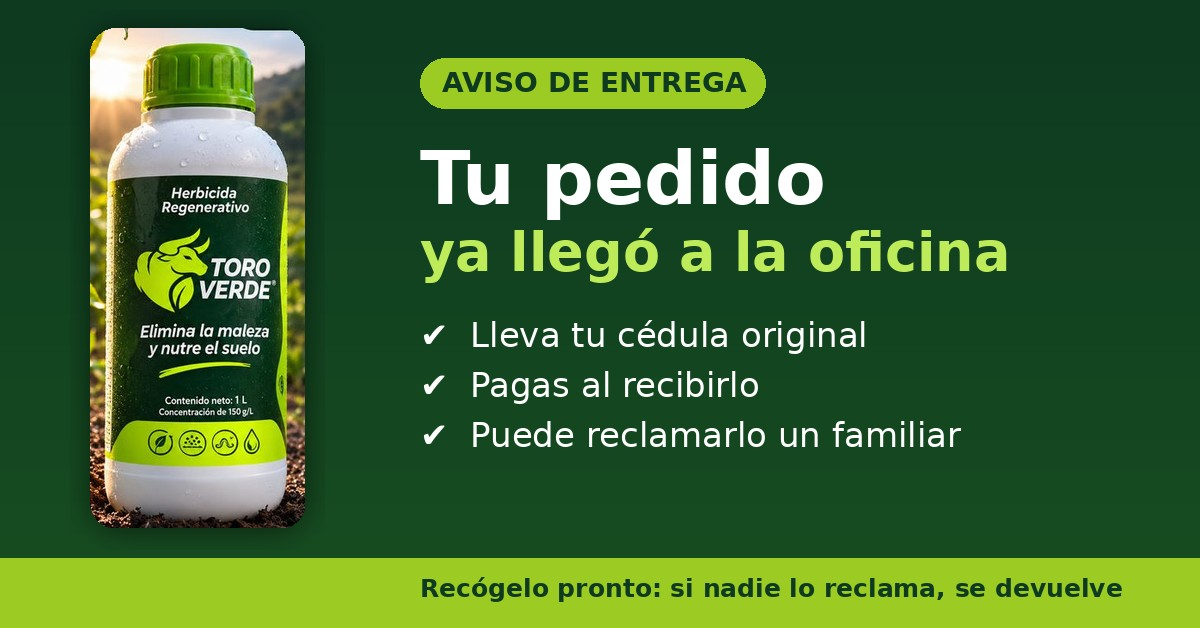
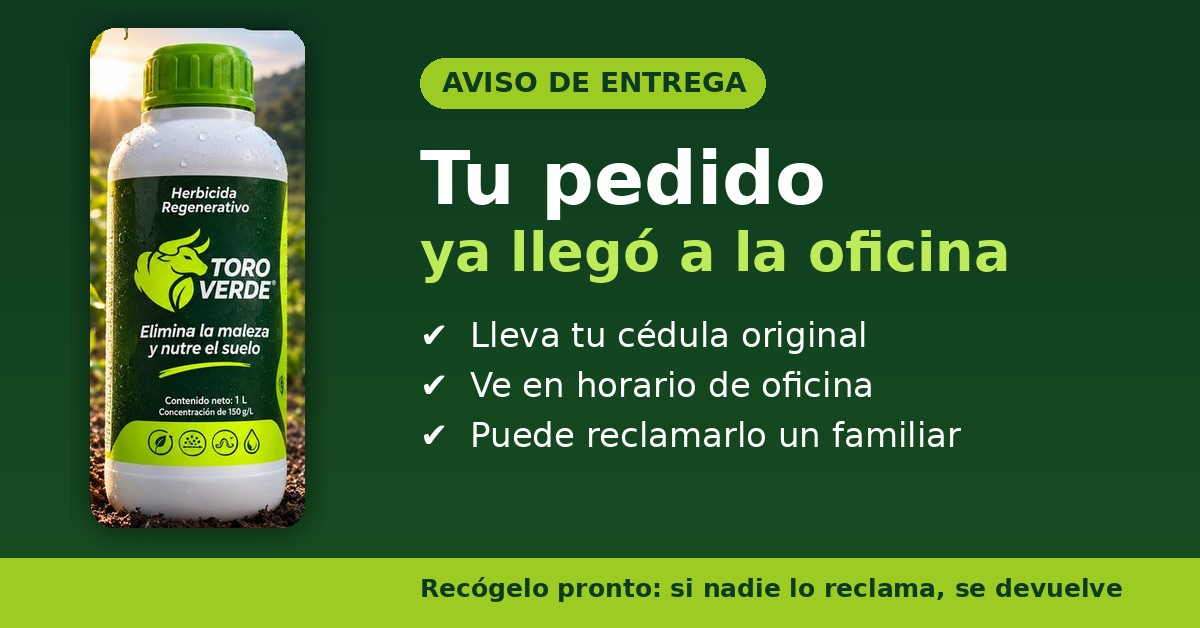
Rastreo: no cobrar al recibir a pedidos ya pagados; imagen corregida
Claude-Session: https://claude.ai/code/session_019w2oDTrzDqc8mTA8QA1NJr

Changed region(s): [[0.37, 0.5748, 0.74, 0.6354]]

diff --git a/toro-verde/robot-despacho/panel/hoy.js b/toro-verde/robot-despacho/panel/hoy.js
@@ -4,5 +4,5 @@ let auth=null;p.on('request',r=>{const h=r.headers();if(!auth&&h['x-authorizatio
 await p.goto('https://app.dropi.co/dashboard/orders',{waitUntil:'networkidle',timeout:60000});
 const call=u=>p.evaluate(async([u,a])=>{const r=await fetch('https://api.dropi.co/api'+u,{headers:{'x-authorization':a,accept:'application/json'}});try{return await r.json()}catch(e){return null}},[u,auth]);
 let all=[];for(let s=0;s<6000;s+=200){const q=`/orders/myorders/v2?exportAs=orderByRow&orderBy=id&orderDirection=desc&result_number=200&start=${s}&textToSearch=&status=null&supplier_id=false&user_id=1024715&from=${new Date(Date.now()-(+(process.env.DIAS||10))*864e5).toISOString().slice(0,10)}&until=${new Date(Date.now()+864e5).toISOString().slice(0,10)}&filter_date_by=FECHA%20DE%20CREADO`;const j=await call(q);const o=(j&&j.objects)||[];all=all.concat(o);if(o.length<200)break}
-const out=all.map(o=>({id:o.id,status:o.status,name:((o.name||'')+' '+(o.surname||'')).trim(),phone:String(o.phone||'').slice(-10),city:o.city,state:o.state,total:+o.total_order,flete:+(o.shipping_amount||0),dc:(o.distribution_company||{}).name,tags:(o.tags||[]).map(t=>t.name||t),created:o.created_at,updated:o.updated_at,items:(o.orderdetails||[]).map(d=>d.quantity+'x'+((d.variation||{}).attributes||[]).map(a=>a.value||'').join(''))}));
+const out=all.map(o=>({id:o.id,status:o.status,name:((o.name||'')+' '+(o.surname||'')).trim(),phone:String(o.phone||'').slice(-10),city:o.city,state:o.state,total:+o.total_order,flete:+(o.shipping_amount||0),rate:o.rate_type||"",dc:(o.distribution_company||{}).name,tags:(o.tags||[]).map(t=>t.name||t),created:o.created_at,updated:o.updated_at,items:(o.orderdetails||[]).map(d=>d.quantity+'x'+((d.variation||{}).attributes||[]).map(a=>a.value||'').join(''))}));
 fs.writeFileSync(process.env.SALIDA||'/tmp/dropi/hoy.json',JSON.stringify(out));console.log('N',out.length,auth?'auth':'noauth');console.log(JSON.stringify(all[0]&&{tags:all[0].tags,upd:all[0].updated_at,keys:Object.keys(all[0]).slice(0,60)}));await b.close()})();

diff --git a/toro-verde/robot-despacho/rastreo.py b/toro-verde/robot-despacho/rastreo.py
@@ -26,6 +26,9 @@ try: import oficinas as _of
 except Exception: _of = None
 
 def plata(v): return f"${(v or 0):,.0f}".replace(',', '.')
+# Ronald 27-11: «ojo con lo de pagas al recibirlo, no si es anticipado» → pedido SIN RECAUDO (ya pagó) no se le cobra nada
+def pagado(o): return 'SIN' in (o.get('rate') or '').upper() or not (o.get('total') or 0)
+def pago(o): return 'Tu pedido ya está pagado: no tienes que pagar nada al recibirlo.' if pagado(o) else f"Lleva {plata(o.get('total'))} para pagar al recibirlo."
 def dir_oficina(o):
     if not (_of and 'INTER' in (o.get('dc') or '').upper()): return ''
     try: d = _of.dir_oficina(o.get('state', ''), _of.muni(o.get('city', '')), '') or ''
@@ -37,7 +40,7 @@ def etapa(o):
 def texto(o, intento):
     n = (o.get('name') or '').split(' ')[0].title() or 'compita'
     cab = f"Hola {n} 👋 Soy Karen, de Toro Verde. " + ("Te escribo de nuevo porque es importante: " if intento == 2 else "")
-    return (cab + f"{etapa(o)} 📦\n\nTen a la mano tu cédula y {plata(o.get('total'))} para el pago contra entrega.\n\n"
+    return (cab + f"{etapa(o)} 📦\n\nLleva tu cédula original. {pago(o)}\n\n"
             "⏳ La transportadora solo lo guarda unos pocos días y, si no se recibe, lo devuelve. ¿Te ayudamos a recibirlo? "
             "Si no puedes ir, lo puede reclamar un familiar con una autorización y copia de tu cédula.")
 def ultimo_del_cliente(tel):
@@ -86,7 +89,7 @@ if 7 <= hoy.hour < 20:
             if ENVIAR:
                 try:
                     lucid(f'/contacts/57{tel}/custom_fields/{CAMPO_DATO2}', form={'value': etapa(o)})
-                    lucid(f'/contacts/57{tel}/custom_fields/{CAMPO_DATO3}', form={'value': plata(o.get('total'))})
+                    lucid(f'/contacts/57{tel}/custom_fields/{CAMPO_DATO3}', form={'value': pago(o)})
                     if 'true' in json.dumps(lucid(f'/contacts/57{tel}/send/{FLUJO_RASTREO}', {})): env += 1
                 except Exception: continue
         else:

diff --git a/toro-verde/robot-despacho/cas_auto.py b/toro-verde/robot-despacho/cas_auto.py
@@ -112,10 +112,11 @@ for c in casos:
         # Ronald 26-11: Lucid ya manda su plantilla de oficina (con video) cuando Dropi pasa a RECLAME EN OFICINA → aquí solo si Dropi aún NO lo marca así.
         if not e.get('cliente_oficina') and estado_hoy != 'RECLAME EN OFICINA':
             total = o.get('total') or 0
+            if 'SIN' in (o.get('rate') or '').upper(): total = 0   # Ronald 27-11: pedido pagado por anticipo → no se cobra al recibir
             acc['cliente'] = (f"Hola {nom.split(' ')[0] if nom else ''} 👋 Te escribe Karen de Toro Verde. ¡Tu pedido ya llegó! 📦\n"
                               f"Está disponible para reclamar en la oficina de {dc.title()}" + (f": *{dirof}*" if dirof else '') +
                               f" ({(o.get('city') or q.get('city') or '').title()}).\n"
-                              "Lleva tu *cédula original*" + (f" y el pago contra entrega de *${total:,.0f}*".replace(',', '.') if total else '') +
+                              "Lleva tu *cédula original*" + (f" y el pago contra entrega de *${total:,.0f}*".replace(',', '.') if total else ' (tu pedido ya está pagado, no pagas nada)') +
                               ". Ve en horario de oficina.\nSi no puedes ir, cuéntanos y lo puede reclamar un familiar con autorización. 🌱")
     elif tipo == 'EVIDENCIA' and not reciente:
         if not e.get('cliente_evid'):

diff --git a/toro-verde/ESTADO.md b/toro-verde/ESTADO.md
@@ -985,3 +985,4 @@ Carpeta Flujos / Recompra, 20 flujos, todos con Estado y Bandeja de Entrada ence
 - 27-11 8:00 a. m.: hoy 17 de 17 confirmados los hizo el robot (100 %); 18 pendientes. Arreglado «nombre raro»: un apellido repetido (López López) ya no frena el pedido (razonar.py). Leandro Cárdenas (3112870489) confirmado tras leer ficha.
 - 27-11 8:27 a. m.: vuelta :19: 5 confirmados más (reglas); hoy 39 pedidos, 21 confirmados por el robot; pantallas publicadas; sin tareas pendientes.
 - 27-11 9:00 a. m.: CAS: 5 quejas nuevas a Envía (Cali, Supía, Los Patios, Puerto Giraldo, Ocaña); 2 seguimientos sin caso; 1 falla de pantalla (Cúcuta). De 53 guías con queja previa, 40 ya se movieron. Libardo (98516059) vetado: oficina Interrapidísimo pero va por Coordinadora. Respondido a Ronald por WhatsApp el estado del rastreo (196 en oficina, 123 esperan plantilla).
+- 27-11 9:30 a. m.: Ronald: «ojo con "pagas al recibirlo" si es anticipado». Rastreo y aviso de oficina del CAS ya distinguen pedido pagado (SIN RECAUDO, campo rate en hoy.json) de contra entrega. Imagen de la plantilla de rastreo sin «Pagas al recibirlo».

diff --git a/toro-verde/lucid-sales/prompt-claude-plantilla-rastreo.md b/toro-verde/lucid-sales/prompt-claude-plantilla-rastreo.md
@@ -23,7 +23,7 @@ Encabezado: IMAGEN. Sube la imagen «rastreo-oficina.jpg» que te adjunto (es fi
 Cuerpo:
 Hola {{1}} 👋 Soy Karen, de Toro Verde. {{2}} 📦 y te está esperando.
 
-Para recibirlo solo necesitas tu cédula y {{3}} para el pago contra entrega.
+Lleva tu cédula original. {{3}}
 
 ⏳ La transportadora lo guarda pocos días y, si nadie lo reclama, lo devuelve. Si no puedes ir, lo puede recoger un familiar con una autorización firmada y copia de tu cédula.
 
@@ -32,7 +32,8 @@ Botones de respuesta rápida: «Voy hoy» · «Voy mañana» · «No puedo ir»
 Ejemplos de las variables:
   {{1}} Diego
   {{2}} Tu pedido ya está en la oficina de Interrapidísimo de Doradal (CLL 23 25 30)
-  {{3}} $169.000
+  {{3}} Lleva $169.000 para pagar al recibirlo.
+  (Si el pedido ya está pagado, el robot pone: «Tu pedido ya está pagado: no tienes que pagar nada al recibirlo.»)
 Envíala a revisión de Meta.
 
 PASO 3 · FLUJO (Automatización → Flujos → Nuevo)
